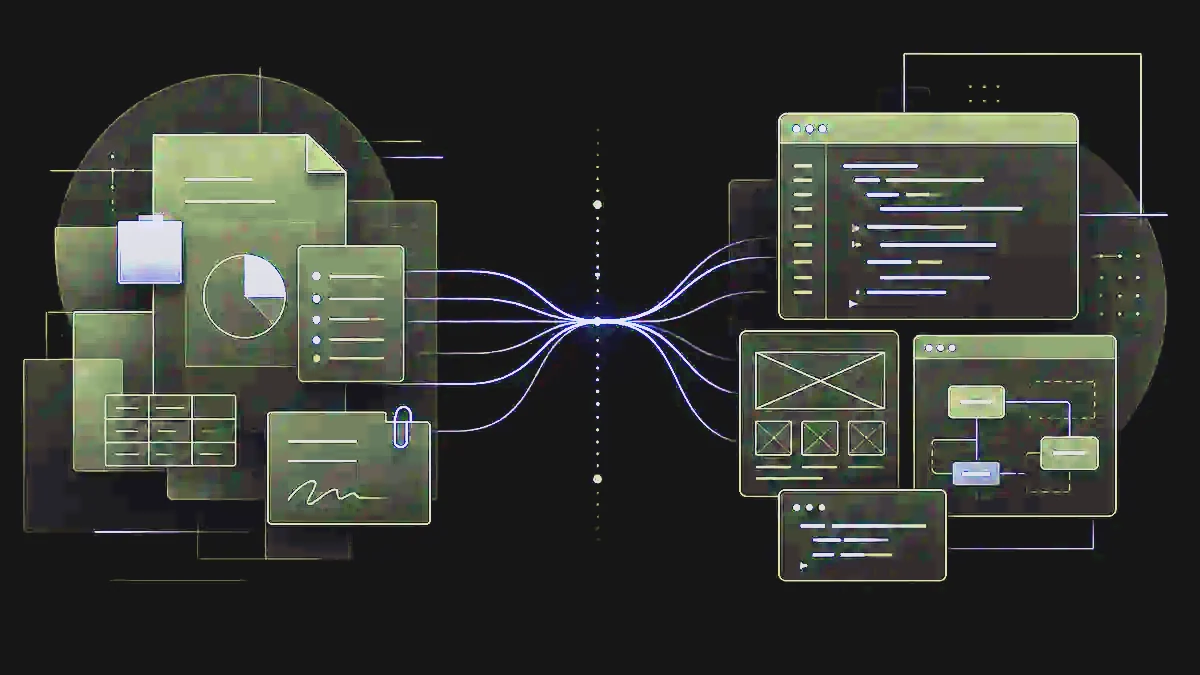
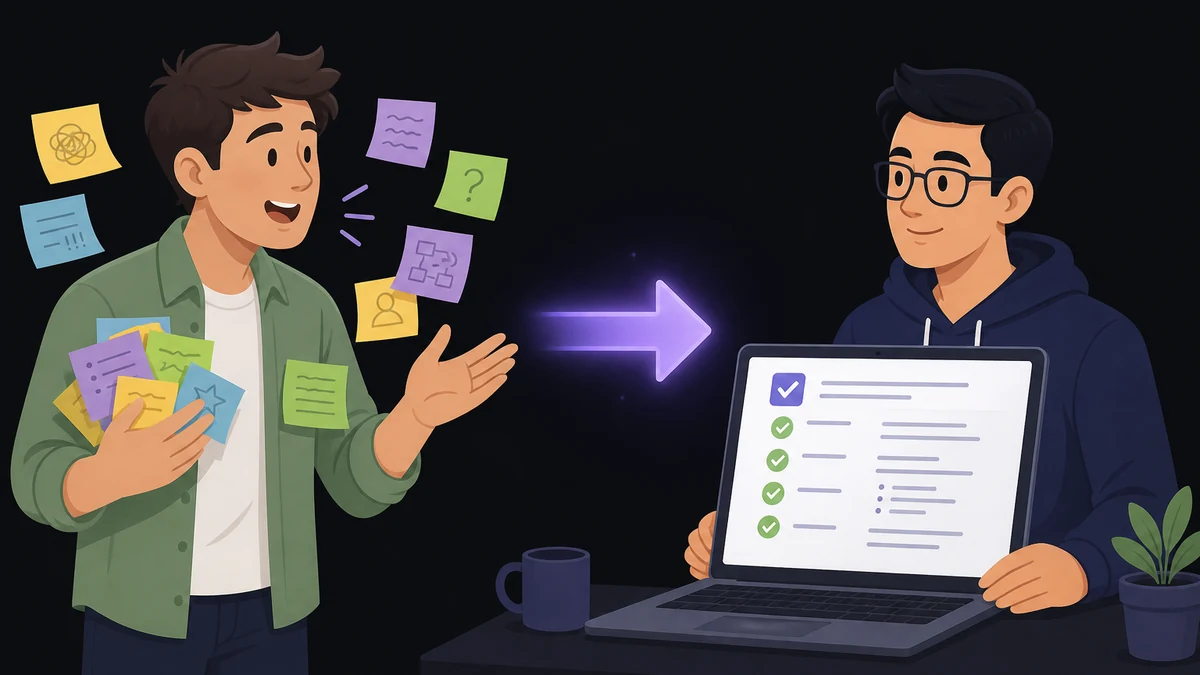
Strengths画像を人中心のわかりやすいイラストに差し替え
構成図っぽい抽象表現をやめ、各タイトルが一目で伝わる人物イメージにする。

diff --git a/src/lib/strengths.ts b/src/lib/strengths.ts
@@ -30,7 +30,7 @@ export const STRENGTHS: Strength[] = [
 		order: 1,
 		tech: ['laravel', 'typescript', 'react'],
 		image: '/images/strengths/bridge.webp',
-		imageAlt: 'Business and engineering bridge illustration',
+		imageAlt: 'Sales and engineering turning messy requests into a clear spec',
 		copy: {
 			ja: {
 				title: '営業要望を、実装できる仕様に落とす',
@@ -57,7 +57,7 @@ export const STRENGTHS: Strength[] = [
 		order: 2,
 		tech: ['php', 'laravel', 'aws', 'docker'],
 		image: '/images/strengths/saas.webp',
-		imageAlt: 'Reliable SaaS systems illustration',
+		imageAlt: 'Handing a reliable SaaS product to trusting people in the field',
 		copy: {
 			ja: {
 				title: 'B2B SaaS を、現場の信頼を落とさず届ける',
@@ -84,7 +84,7 @@ export const STRENGTHS: Strength[] = [
 		order: 3,
 		tech: ['github', 'cursor', 'typescript'],
 		image: '/images/strengths/lead.webp',
-		imageAlt: 'Team leadership and AI-assisted delivery illustration',
+		imageAlt: 'A team lead helping a small group ship with less rework',
 		copy: {
 			ja: {
 				title: '少人数チームの手戻りを減らす',
